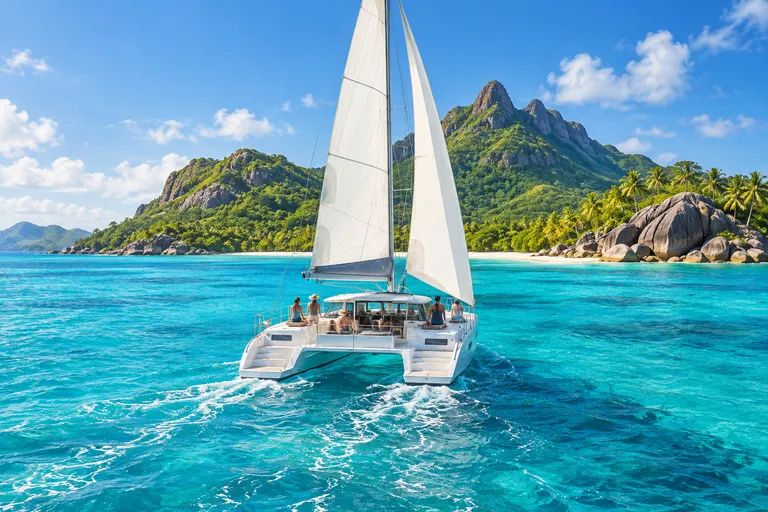
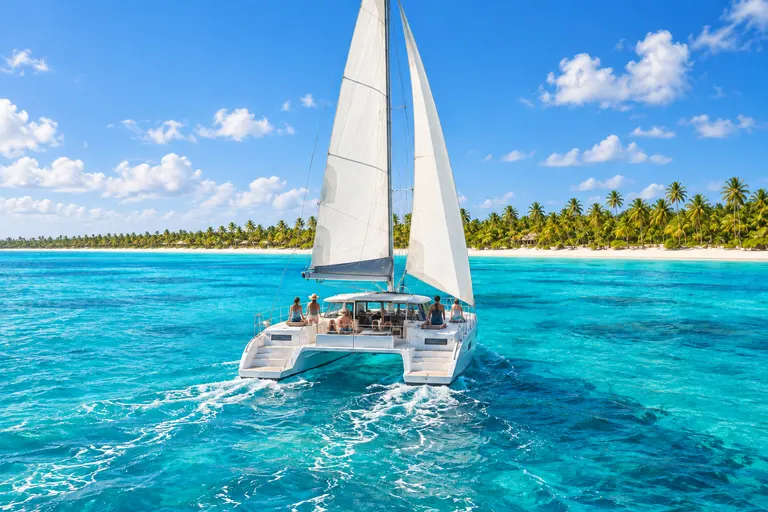
Correct activity backgrounds to flat Bavaro coastline

diff --git a/assets/activities/README.md b/assets/activities/README.md
@@ -1,5 +1,7 @@
 # Activity illustrations
 
+Coastline correction: all above-water backgrounds were edited with the built-in image tool to show the flat coast of Bávaro: sea-level white sand beaches, coconut palms and low vegetation. Remove mountains, hills, cliffs and large boulders; preserve people, boats, activity equipment, composition and colors. The underwater scuba image was retained unchanged.
+
 Generated with the built-in image generation tool, then resized to 768 × 512 WebP (quality 78). These are illustrative images, not photographs of the operator's actual vessels or excursions. Replace each matching filename to update the catalog without database changes.
 
 Shared prompt: Create one horizontal 3:2 travel activity card image for a Caribbean excursions booking website. Polished realistic editorial illustration, natural bright daylight, turquoise water, coherent premium travel magazine aesthetic, clearly illustrative rather than a documentary photograph. Compose main subject centered so it remains recognizable when cropped to a wide card. No text, no logos, no border, no collage. This is a generic activity illustration, not an image of a specific provider's equipment.
